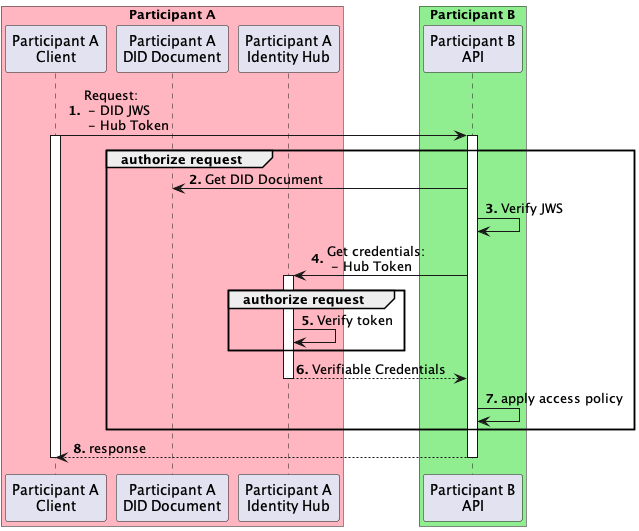
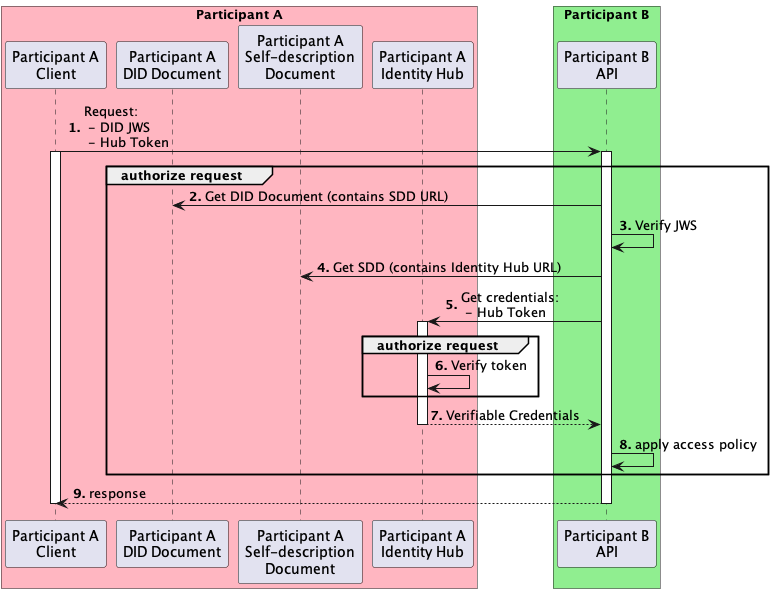
Added self-description document

diff --git a/docs/developer/decision-records/2022-05-10-dataspace-communication/README.md b/docs/developer/decision-records/2022-05-10-dataspace-communication/README.md
@@ -8,15 +8,24 @@
   - Manages policies defining who is allowed to participate in the dataspace.
   - Publishes a self-description document.
 
-- **DID Document**: A [Web DID](https://w3c-ccg.github.io/did-method-web) Document containing:
+- **DID Document**: A publicly accessible [Web DID](https://w3c-ccg.github.io/did-method-web) Document containing:
 
   - A DID
   - A set of public keys
-  - A set of service endpoints and authentication methods
+  - A set of service endpoints and authentication methods, containing only:
+    - Self-description document location
+
+- **Self-description document**: A publicly accessible Document containing:
+
+  - A set of service endpoints and authentication methods, such as:
     - Identity Hub
+    - Enrollment endpoint (if a Dataspace Authority)
+    - Registry endpoint (if a Dataspace Authority)
   - Self-description
   - Timestamp
   - Signature
+
+  NB: Per the Web DID specification, these items could also be contained in the DID Document. However, storing them in a separate document reduces coupling with the Web DID protocol.
 
 - **Verifiable Credentials** (VC): information about a subject, that is cryptographically signed 
 
@@ -65,11 +74,12 @@ None
 1. The Client for Participant A (which could be EDC, or any other application) sends a request to Participant B's API. The client needs access to Participant A's Private Key to sign a JWS. It also sends a time-limited bearer token granting access to its Identity Hub.
 2. Participant B retrieves the DID Document based on the DID URI contained in the JWS.
 3. Participant B authenticates the request by validating the JWS signature against the public key in the DID Document.
-4. Participant B finds Participant A's Identity Hub URL in the DID Document. It authorizes the request by obtaining VCs for Participant A at its Identity Hub, using the bearer token sent initially by Participant A.
-5. Participant A's Identity Hub verifiies the bearer token validity.
-6. Participant A's Identity Hub returns Participant A's Verifiable Credentials.
-7. Participant B applies its access policy for the given service. This applies expiration dates and Certificate Revocation Lists to filter valid Verifiable Credentials, and rules specific to a given service. For example, the caller must be a dataspace participant (i.e. have a valid Verifiable Credential signed by the Dataspace Authority, that establishes its dataspace membership).
-8. Participant B returns the service response if the request was successfully authorized, otherwise, an error response. Depending on the flow, the response can be synchronously or asynchronously returned.
+4. Participant B retrieves the Self-description Document based on the URL contained in the DID Document.
+5. Participant B finds Participant A's Identity Hub URL in the Self-description Document. It authorizes the request by obtaining VCs for Participant A at its Identity Hub, using the bearer token sent initially by Participant A.
+6. Participant A's Identity Hub verifies the bearer token validity.
+7. Participant A's Identity Hub returns Participant A's Verifiable Credentials.
+8. Participant B applies its access policy for the given service. This applies expiration dates and Certificate Revocation Lists to filter valid Verifiable Credentials, and rules specific to a given service. For example, the caller must be a dataspace participant (i.e. have a valid Verifiable Credential signed by the Dataspace Authority, that establishes its dataspace membership).
+9. Participant B returns the service response if the request was successfully authorized, otherwise, an error response. Depending on the flow, the response can be synchronously or asynchronously returned.
 
 ### Dataspace enrollment flow
 
@@ -103,16 +113,17 @@ In simple scenarios, enrollement could be fast and fully automated. However, in 
 
 ![dataspace-enrollment](dataspace-enrollment.png)
 
-1. The Client for Company1 initiates the enrollment process based on the Dataspace DID URL. It retrieves the DID Document and parses it to determine the Dataspace enrollment HTTP endpoint.
-1. The client needs access to the Company1 Private Key to sign a JWS. The client sends an HTTP request to the Dataspace Authority enrollement endpoint. The request is accepted for asynchronous processing.
-1. The DA uses the Distributed authorization sub-flow (see above) to authenticate the request...
-1. ... and retrieve credentials from Company1's Identity Hub.
-1. The DA authorizes the request by applying the Dataspace enrollment policy on the obtained Verifiable Credentials.
-1. The DA stores membership information in its registry. At the very least, this includes Company 1's DID URL.
-1. The DA issues and signs a membership Verifiable Credential as an X.509 Certificate.
-1. The DA stores the Certificate in its log, for audit and revocation.
-1. The DA sends the Verifiable Credential to Company1's Identity Hub for storage. It uses the Identity Hub bearer token (from the Distributed authorization sub-flow) to authenticate the request.
-10. Company1's Identity Hub validates the bearer token and stores the membership Verifiable Credential.
+1. The Client for Company1 initiates the enrollment process based on the Dataspace DID URL. It retrieves the DID Document, and parses it to determine the Self-description document endpoint.
+2. The Client for Company1 retrieves the Self-description document, and parses it to retrieve the Dataspace enrollment HTTP endpoint.
+3. The client needs access to the Company1 Private Key to sign a JWS. The client sends an HTTP request to the Dataspace Authority enrollement endpoint. The request is accepted for asynchronous processing.
+4. The DA uses the Distributed authorization sub-flow (see above) to authenticate the request...
+5. ... and retrieve credentials from Company1's Identity Hub.
+6. The DA authorizes the request by applying the Dataspace enrollment policy on the obtained Verifiable Credentials.
+7. The DA stores membership information in its registry. At the very least, this includes Company 1's DID URL.
+8. The DA issues and signs a membership Verifiable Credential as an X.509 Certificate.
+9. The DA stores the Certificate in its log, for audit and revocation.
+10. The DA sends the Verifiable Credential to Company1's Identity Hub for storage. It uses the Identity Hub bearer token (from the Distributed authorization sub-flow) to authenticate the request.
+11. Company1's Identity Hub validates the bearer token and stores the membership Verifiable Credential.
 
 ### List participants flow
 
@@ -140,14 +151,15 @@ None
 
 ![list-participants](list-participants.png)
 
-1. The EDC for Company1 determines the Dataspace Registry endpoint from the Dataspace DID Document.
-2. The EDC for Company1 issues a request to the Dataspace Registry, to list participants.
-3. The Registry uses the Distributed authorization sub-flow (see above) to authenticate the request...
-4. ... and retrieve credentials from Company1's Identity Hub.
-5. The Registry authorizes the request by applying the Registry access policy on the obtained Verifiable Credentials. For example, the caller must be a valid Dataspace Participant.
-6. The Registry obtains the list of Dataspace Participant DID URIs from its storage...
-7. ... and returns it synchronously to the caller (Company1 EDC).
-8. The EDC for Company1 iterates through the Participants' DID URIs, and retrieves the collection of their IDS endpoints from their DID Documents.
+1. The EDC for Company1 determines the Self-description document endpoint from the Dataspace DID Document.
+2. The EDC for Company1 determines the Dataspace Registry endpoint from the Self-description document.
+3. The EDC for Company1 issues a request to the Dataspace Registry, to list participants.
+4. The Registry uses the Distributed authorization sub-flow (see above) to authenticate the request...
+5. ... and retrieve credentials from Company1's Identity Hub.
+6. The Registry authorizes the request by applying the Registry access policy on the obtained Verifiable Credentials. For example, the caller must be a valid Dataspace Participant.
+7. The Registry obtains the list of Dataspace Participant DID URIs from its storage...
+8. ... and returns it synchronously to the caller (Company1 EDC).
+9. The EDC for Company1 iterates through the Participants' DID URIs, and retrieves the collection of their IDS endpoints from their DID Documents.
 
 ### IDS flows
 
